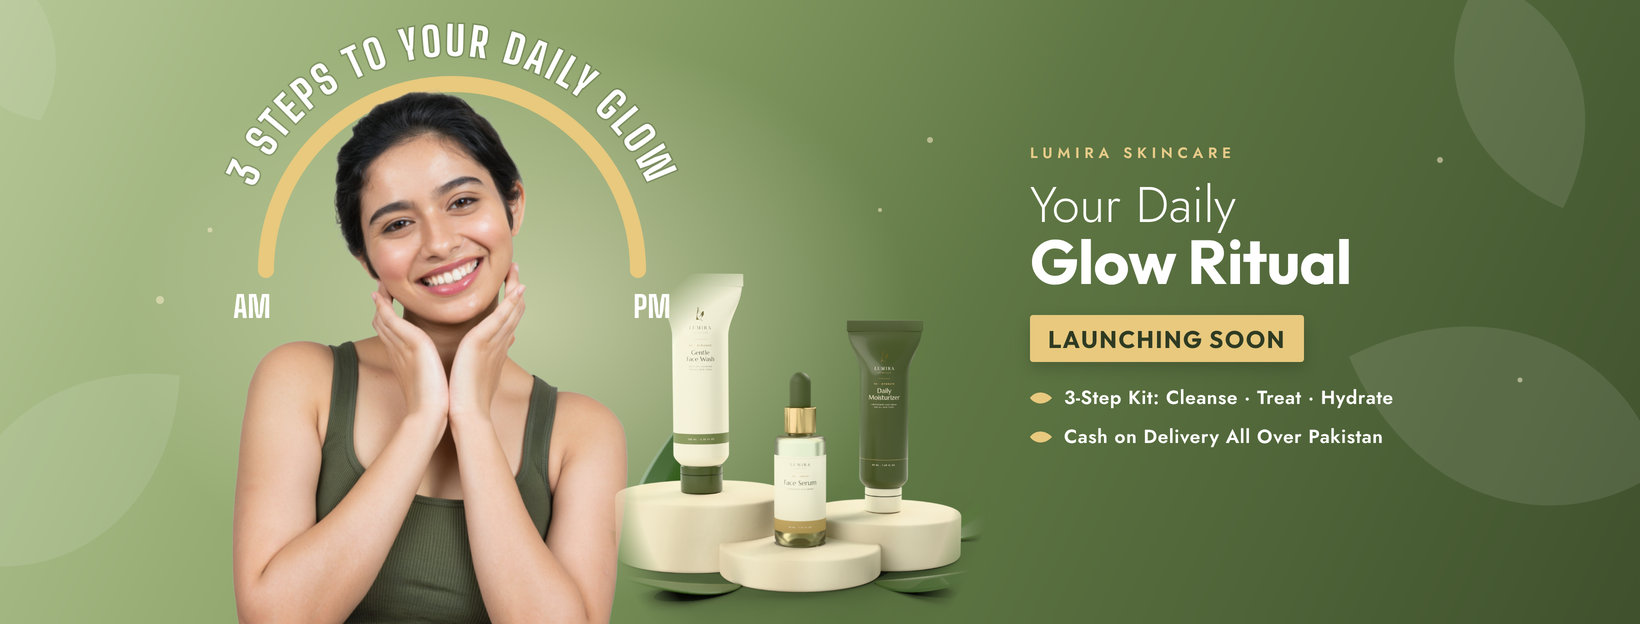
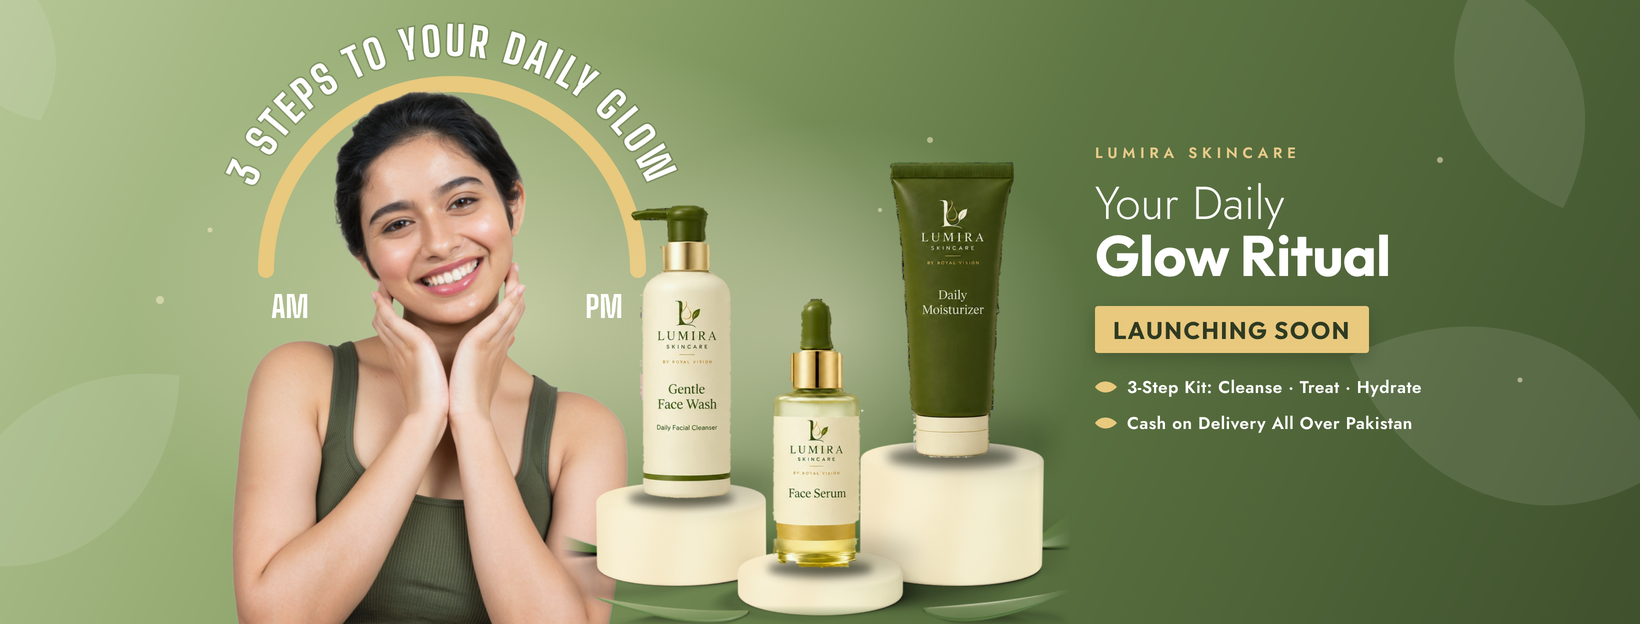
Lumira FB cover: HD product photos placed on rendered podiums
Claude-Session: https://claude.ai/code/session_01LcLnYNDzurLSB8XLdGSFaY

Changed region(s): [[0.3421, 0.2131, 0.8707, 1.0], [0.1244, 0.4567, 0.1866, 0.5176]]

diff --git a/brand/lumira-beauty/social/fb-cover/source/cover.html b/brand/lumira-beauty/social/fb-cover/source/cover.html
@@ -7,15 +7,16 @@ html,body{margin:0}
  linear-gradient(115deg,#B5C796 0%,#8FA56C 30%,#5F7744 58%,#3F512D 100%);font-family:Jost}
 .abs{position:absolute}
 #model{left:232px;top:88px;height:556px}
-#prod{left:600px;top:262px;height:372px}
+#prod{left:560px;top:150px;height:478px}
+#glow{left:570px;top:120px;width:520px;height:420px;border-radius:50%;background:radial-gradient(closest-side,rgba(247,241,220,.42),rgba(247,241,220,0))}
 #podium{left:581px;top:580px;width:380px;height:44px;border-radius:50%;background:radial-gradient(closest-side,#F4EEDC,#E2D7B8 70%,#CDBF97);box-shadow:0 10px 24px rgba(20,30,10,.35)}
-#txt{left:1030px;top:142px;width:380px;color:#fff}
+#txt{left:1095px;top:142px;width:330px;color:#fff}
 .lab{font-weight:600;letter-spacing:.32em;font-size:15px;color:#E8CC8A}
-.h1{font-weight:300;font-size:50px;line-height:1;margin-top:16px}
-.h2{font-family:Outfit;font-weight:700;font-size:62px;line-height:1.02;letter-spacing:-.01em}
+.h1{font-weight:300;font-size:46px;line-height:1;margin-top:16px}
+.h2{font-family:Outfit;font-weight:700;font-size:57px;line-height:1.02;letter-spacing:-.01em}
 .tag{display:inline-block;margin-top:22px;background:#E8C97E;color:#2E3A22;font-family:Outfit;font-weight:700;font-size:24px;letter-spacing:.06em;padding:9px 18px 8px;border-radius:3px;box-shadow:0 6px 16px rgba(0,0,0,.18)}
 ul{list-style:none;padding:0;margin:22px 0 0;display:flex;flex-direction:column;gap:12px}
-li{display:flex;align-items:center;gap:12px;font-weight:600;font-size:19px;letter-spacing:.03em}
+li{display:flex;align-items:center;gap:10px;font-weight:600;font-size:17px;letter-spacing:.03em}
 li svg{flex:none}
 </style></head><body><div id="c">
 <svg class="abs" width="1640" height="624" style="left:0;top:0">
@@ -31,10 +32,11 @@ li svg{flex:none}
  <use href="#arc" fill="none" stroke="#E8C97E" stroke-width="16" stroke-linecap="round"/>
  <text font-family="BigS" font-size="40" letter-spacing="3" fill="#fff" style="paint-order:stroke" stroke="rgba(40,55,25,.25)" stroke-width="3">
   <textPath href="#arcT" startOffset="50%" text-anchor="middle">3 STEPS TO YOUR DAILY GLOW</textPath></text>
- <text x="252" y="318" font-family="BigS" font-size="30" fill="#fff" text-anchor="middle">AM</text>
- <text x="652" y="318" font-family="BigS" font-size="30" fill="#fff" text-anchor="middle">PM</text>
+ <text x="290" y="318" font-family="BigS" font-size="30" fill="#fff" text-anchor="middle">AM</text>
+ <text x="604" y="318" font-family="BigS" font-size="30" fill="#fff" text-anchor="middle">PM</text>
 </svg>
 <img id="model" class="abs" src="model_final.png">
+<div id="glow" class="abs"></div>
 <img id="prod" class="abs" src="stage_crop.png">
 <div id="txt" class="abs">
  <div class="lab">LUMIRA SKINCARE</div>

diff --git a/brand/lumira-beauty/kit/realistic/source/podium_only.py b/brand/lumira-beauty/kit/realistic/source/podium_only.py
@@ -1,0 +1,42 @@
+"""Travertine podiums + leaves only (no products), transparent film with shadow catcher.
+Prints each podium's top-centre pixel and px/mm so HD product photos can be placed on them."""
+import sys, os, math, json
+sys.path.insert(0, os.path.dirname(os.path.abspath(__file__)))
+import scene as S
+from scene import *
+import box_mockup as B
+from cover_stage import m_travertine, m_leaf, leaf
+from bpy_extras.object_utils import world_to_camera_view
+
+PODS = {"fw": ((-78, 22), 50, 42), "se": ((4, -48), 46, 16), "mo": ((82, 26), 54, 66)}
+
+def build():
+    world((0.42, 0.52, 0.32), 0.5)
+    s = bpy.context.scene; s.render.film_transparent = True
+    floor = plane("floor", 3, 3, (0, 0, 0)); floor.is_shadow_catcher = True
+    trav = m_travertine("trav")
+    for k, ((x, y), r, h) in PODS.items():
+        cyl("pod_" + k, mm(r), mm(h), 0, trav, verts=192, bevel=mm(2.5), loc=(mm(x), mm(y)))
+    g1, g2 = m_leaf("leafA", (0.035, 0.085, 0.022, 1)), m_leaf("leafB", (0.07, 0.13, 0.04, 1))
+    leaf("l1", mm(120), mm(26), (mm(-120), mm(55), mm(2)), (6, -8, 165), 0.25, g1)
+    leaf("l2", mm(110), mm(24), (mm(135), mm(70), mm(2)), (5, -10, 30), 0.3, g2)
+    leaf("l3", mm(90), mm(22), (mm(-35), mm(-85), mm(1)), (4, -6, -150), 0.10, g2)
+    leaf("l4", mm(95), mm(22), (mm(60), mm(-80), mm(1)), (3, -8, -30), 0.12, g1)
+    cam = (0, -1.12, 0.27); tgt = (0, 0, mm(95))
+    B.lamp("key", (-0.55, -0.5, 0.6), tgt, 13, 1.2, (1.0, 0.96, 0.90))
+    B.lamp("fill", (0.45, -0.7, 0.25), tgt, 5, 1.6, (0.95, 1.0, 0.92))
+    B.lamp("rim", (0.45, 0.45, 0.5), tgt, 9, 0.6, (1.0, 0.96, 0.85))
+    camera(cam, tgt, lens=70, fstop=16)
+    s.view_settings.exposure = 0.25
+
+def report(w, h):
+    s = bpy.context.scene; cam = s.camera; out = {}
+    for k, ((x, y), r, hh) in PODS.items():
+        c = world_to_camera_view(s, cam, Vector((mm(x), mm(y), mm(hh))))
+        e = world_to_camera_view(s, cam, Vector((mm(x) + mm(r), mm(y), mm(hh))))
+        out[k] = {"x": c.x * w, "y": (1 - c.y) * h, "px_per_mm": (e.x - c.x) * w / r}
+    print("PODS_JSON", json.dumps(out))
+
+if __name__ == "__main__":
+    o, w, h, spp = sys.argv[1], int(sys.argv[2]), int(sys.argv[3]), int(sys.argv[4])
+    S.reset(); build(); S.render(o, w, h, spp); report(w, h)

diff --git a/brand/lumira-beauty/social/fb-cover/source/place.py b/brand/lumira-beauty/social/fb-cover/source/place.py
@@ -1,0 +1,26 @@
+import json, sys
+from PIL import Image, ImageDraw, ImageFilter
+import numpy as np
+P = json.loads(sys.argv[1])
+base = Image.open('podium.png').convert('RGBA'); W, H = base.size
+SRC_PX_PER_MM = 291 / 62.0
+prods = {"mo": "p2.png", "fw": "p0.png", "se": "p1.png"}
+for k in ("mo", "fw", "se"):
+    p = Image.open(prods[k]).convert('RGBA')
+    s = P[k]["px_per_mm"] / SRC_PX_PER_MM
+    p = p.resize((round(p.width * s), round(p.height * s)), Image.LANCZOS)
+    a = np.asarray(p).astype(float); a[..., :3] *= (0.98, 1.0, 0.96); p = Image.fromarray(a.clip(0, 255).astype(np.uint8))
+    cx, by = P[k]["x"], P[k]["y"] + 4
+    # cast shadow (key light from front-left -> falls back-right)
+    sh = Image.new('RGBA', (W, H), (0, 0, 0, 0)); d = ImageDraw.Draw(sh)
+    w = p.width
+    d.ellipse((cx - w * 0.35, by - w * 0.28, cx + w * 0.95, by + w * 0.02), fill=(20, 28, 12, 70))
+    sh = sh.filter(ImageFilter.GaussianBlur(w * 0.12)); base.alpha_composite(sh)
+    # contact shadow
+    cs = Image.new('RGBA', (W, H), (0, 0, 0, 0)); d = ImageDraw.Draw(cs)
+    d.ellipse((cx - w * 0.52, by - w * 0.09, cx + w * 0.52, by + w * 0.07), fill=(15, 20, 8, 150))
+    cs = cs.filter(ImageFilter.GaussianBlur(w * 0.04)); base.alpha_composite(cs)
+    base.alpha_composite(p, (round(cx - p.width / 2), round(by - p.height)))
+base.save('stage_hd.png')
+bb = base.getchannel('A').point(lambda v: 255 if v > 30 else 0).getbbox(); print(base.size, bb)
+chk = Image.new('RGBA', base.size, (95, 119, 68, 255)); chk.alpha_composite(base); chk.convert('RGB').resize((W // 2, H // 2)).save('stage_hd_chk.png')
